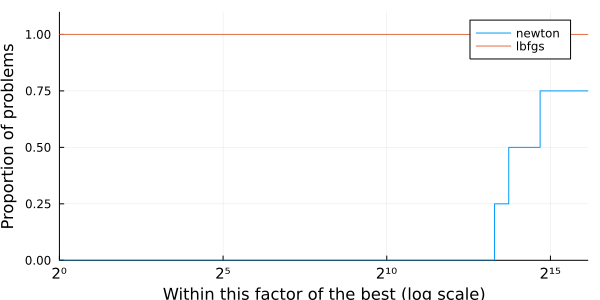
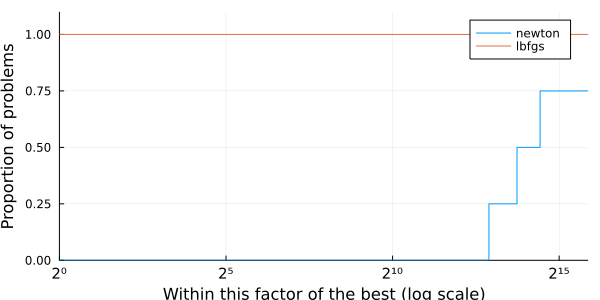
Deploying to gh-pages from  @ dcdb9bae952de26ad7f4052e1809d3c5ec10b59e 🚀

diff --git a/index.html b/index.html
@@ -1,4 +1,4 @@
-<!doctype html> <html lang=en  class=has-navbar-fixed-top > <meta charset=UTF-8 > <meta name=viewport  content="width=device-width, initial-scale=1"> <link rel=stylesheet  href="/libs/katex/katex.min.css"> <link rel=stylesheet  href="/libs/highlight/github.min.css"> <link rel=stylesheet  href="/css/styles.css"> <style> html {font-size: 17px;} .franklin-content {position: relative; padding-left: 8%; padding-right: 5%; line-height: 1.35em;} @media (min-width: 940px) { .franklin-content {width: 100%; margin-left: auto; margin-right: auto;} } @media (max-width: 768px) { .franklin-content {padding-left: 6%; padding-right: 6%;} } </style> <link rel=icon  href="/assets/favicon.png"> <title>Creating a JSO-compliant solver</title> <script src="/libs/highlight/highlight.pack.js"></script> <script src="https://unpkg.com/clipboard@2/dist/clipboard.min.js"></script> <script type=module  src="https://unpkg.com/ionicons@5.5.2/dist/ionicons/ionicons.esm.js"></script> <script nomodule src="https://unpkg.com/ionicons@5.5.2/dist/ionicons/ionicons.js"></script> <script> hljs.getLanguage('julia').keywords.custom = 'obj grad hess AbstractNLPModel'; </script> <nav class="navbar is-primary is-fixed-top" role=navigation  aria-label="main navigation"> <div class=navbar-brand > <a class=navbar-item  href="https://jso-docs.github.io"> <img src="/assets/jso.png"> </a> <a role=button  class=navbar-burger  aria-label=menu  aria-expanded=false  data-target=navbarBasicExample > <span aria-hidden=true ></span> <span aria-hidden=true ></span> <span aria-hidden=true ></span> </a> </div> <div id=navbarBasicExample  class=navbar-menu > <div class=navbar-start > <a class=navbar-item  href="/"> Home </a> <a class=navbar-item  href="/news-and-blogposts/"> News and Blogposts </a> <a class=navbar-item  href="/tutorials/"> Tutorials </a> <div class="navbar-item has-dropdown is-hoverable"> <a class=navbar-link  href="/ecosystems/index.html"> Ecosystems </a> <div class=navbar-dropdown > <a class=navbar-item  href="/ecosystems/linear-algebra/"> Linear Algebra </a> <a class=navbar-item  href="/ecosystems/models/"> Models </a> <a class=navbar-item  href="/ecosystems/solvers/"> Solvers </a> </div> </div> <a class=navbar-item  href="/references/"> References </a> <a class=navbar-item  href="/contributing/"> Contributing </a> </div> <div class=navbar-end > <div class=navbar-item > </div> </div> </div> </nav> <section class=section > <div class=container > <div class=content ><div class=franklin-content ><h1 id=title ><a href="#title" class=header-anchor >Creating a JSO-compliant solver</a></h1></p> <div class=author >by Abel S. Siqueira and João Okimoto</div> <p><img class=badge  src="https://img.shields.io/badge/ADNLPModels-0.3.1-hsl(9,100%25,30%25)?style=flat-square&labelColor=hsl(9,30%25,30%25)"> <img class=badge  src="https://img.shields.io/badge/JSOSolvers-0.7.6-hsl(101,100%25,30%25)?style=flat-square&labelColor=hsl(101,30%25,30%25)"> <img class=badge  src="https://img.shields.io/badge/LinearAlgebra-nothing-666?style=flat-square&labelColor=999"> <img class=badge  src="https://img.shields.io/badge/NLPModels-0.18.3-hsl(175,100%25,30%25)?style=flat-square&labelColor=hsl(175,30%25,30%25)"> <img class=badge  src="https://img.shields.io/badge/Plots-1.27.4-666?style=flat-square&labelColor=999"> <img class=badge  src="https://img.shields.io/badge/SolverBenchmark-0.5.1-hsl(313,100%25,30%25)?style=flat-square&labelColor=hsl(313,30%25,30%25)"> <img class=badge  src="https://img.shields.io/badge/SolverCore-0.2.2-hsl(323,100%25,30%25)?style=flat-square&labelColor=hsl(323,30%25,30%25)"> <p>In this tutorial you will learn what is a JSO-compliant solver, how to create one, and how to benchmark it against some other solver.</p> <div class=franklin-toc ><ol><li><a href="#what_is_a_jso-compliant_solver">What is a JSO-compliant solver</a><li><a href="#method_description">Method description</a><li><a href="#defining_a_test_problem_with_adnlpmodels_and_accessing_its_functions_with_the_nlpmodels_api">Defining a test problem with ADNLPModels and accessing its functions with the NLPModels API</a><li><a href="#improving_the_solver">Improving the solver</a><li><a href="#benchmarking">Benchmarking</a><li><a href="#performance_profiles">Performance profiles</a><li><a href="#improving_the_solver_more">Improving the solver more</a></ol></div> <h2 id=what_is_a_jso-compliant_solver ><a href="#what_is_a_jso-compliant_solver" class=header-anchor >What is a JSO-compliant solver</a></h2> <p>A JSO-compliant solver is a solver whose</p> <ul> <li><p>input is a model implementing the NLPModels API; and</p> <li><p>output is a specific struct from the package SolverCore.</p> </ul> <p>That means that you can devise your solver based on a single API that will work with many different problems. Furthermore, since the output type is known, we can provide tools to compare different solvers.</p> <p>To illustrate the procedure for creating a solver with the JSO API, we&#39;ll implement a Line-Search Modified Newton solver for the problem</p> \[ \min_x \ f(x) \] <h2 id=method_description ><a href="#method_description" class=header-anchor >Method description</a></h2> <p>The method consists of following the direction \(d_k\) that solves</p> \[ \nabla^2 f(x_k) d_k = -\nabla f(x_k) \] <p>This is only reasonable if the system can be solved and \(d_k\) is a descent direction. A sufficient condition for that is that \(\nabla^2 f(x_k)\) is positive definite, which is equivalent to saying that it has a Cholesky decomposition.</p> <p>Since this will not be true in general, the modified Newton method consists of computing \(\rho_k \geq 0\) such that \(\nabla^2 f(x_k) + \rho_k I\) is positive definite. One way to find such a \(\rho_k\) is given below</p> <pre><code class=language-julia >1. Start with ρ from the last iteration
+<!doctype html> <html lang=en  class=has-navbar-fixed-top > <meta charset=UTF-8 > <meta name=viewport  content="width=device-width, initial-scale=1"> <link rel=stylesheet  href="/libs/katex/katex.min.css"> <link rel=stylesheet  href="/libs/highlight/github.min.css"> <link rel=stylesheet  href="/css/styles.css"> <style> html {font-size: 17px;} .franklin-content {position: relative; padding-left: 8%; padding-right: 5%; line-height: 1.35em;} @media (min-width: 940px) { .franklin-content {width: 100%; margin-left: auto; margin-right: auto;} } @media (max-width: 768px) { .franklin-content {padding-left: 6%; padding-right: 6%;} } </style> <link rel=icon  href="/assets/favicon.png"> <title>Creating a JSO-compliant solver</title> <script src="/libs/highlight/highlight.pack.js"></script> <script src="https://unpkg.com/clipboard@2/dist/clipboard.min.js"></script> <script type=module  src="https://unpkg.com/ionicons@5.5.2/dist/ionicons/ionicons.esm.js"></script> <script nomodule src="https://unpkg.com/ionicons@5.5.2/dist/ionicons/ionicons.js"></script> <script> hljs.getLanguage('julia').keywords.custom = 'obj grad hess AbstractNLPModel'; </script> <nav class="navbar is-primary is-fixed-top" role=navigation  aria-label="main navigation"> <div class=navbar-brand > <a class=navbar-item  href="https://jso-docs.github.io"> <img src="/assets/jso.png"> </a> <a role=button  class=navbar-burger  aria-label=menu  aria-expanded=false  data-target=navbarBasicExample > <span aria-hidden=true ></span> <span aria-hidden=true ></span> <span aria-hidden=true ></span> </a> </div> <div id=navbarBasicExample  class=navbar-menu > <div class=navbar-start > <a class=navbar-item  href="/"> Home </a> <a class=navbar-item  href="/news-and-blogposts/"> News and Blogposts </a> <a class=navbar-item  href="/tutorials/"> Tutorials </a> <div class="navbar-item has-dropdown is-hoverable"> <a class=navbar-link  href="/ecosystems/index.html"> Ecosystems </a> <div class=navbar-dropdown > <a class=navbar-item  href="/ecosystems/linear-algebra/"> Linear Algebra </a> <a class=navbar-item  href="/ecosystems/models/"> Models </a> <a class=navbar-item  href="/ecosystems/solvers/"> Solvers </a> </div> </div> <a class=navbar-item  href="/references/"> References </a> <a class=navbar-item  href="/contributing/"> Contributing </a> </div> <div class=navbar-end > <div class=navbar-item > </div> </div> </div> </nav> <section class=section > <div class=container > <div class=content ><div class=franklin-content ><h1 id=title ><a href="#title" class=header-anchor >Creating a JSO-compliant solver</a></h1></p> <div class=author >by Abel S. Siqueira and João Okimoto</div> <p><img class=badge  src="https://img.shields.io/badge/ADNLPModels-0.3.1-hsl(9,100%25,30%25)?style=flat-square&labelColor=hsl(9,30%25,30%25)"> <img class=badge  src="https://img.shields.io/badge/JSOSolvers-0.7.6-hsl(101,100%25,30%25)?style=flat-square&labelColor=hsl(101,30%25,30%25)"> <img class=badge  src="https://img.shields.io/badge/LinearAlgebra-nothing-666?style=flat-square&labelColor=999"> <img class=badge  src="https://img.shields.io/badge/NLPModels-0.18.3-hsl(175,100%25,30%25)?style=flat-square&labelColor=hsl(175,30%25,30%25)"> <img class=badge  src="https://img.shields.io/badge/Plots-1.27.5-666?style=flat-square&labelColor=999"> <img class=badge  src="https://img.shields.io/badge/SolverBenchmark-0.5.1-hsl(313,100%25,30%25)?style=flat-square&labelColor=hsl(313,30%25,30%25)"> <img class=badge  src="https://img.shields.io/badge/SolverCore-0.2.2-hsl(323,100%25,30%25)?style=flat-square&labelColor=hsl(323,30%25,30%25)"> <p>In this tutorial you will learn what is a JSO-compliant solver, how to create one, and how to benchmark it against some other solver.</p> <div class=franklin-toc ><ol><li><a href="#what_is_a_jso-compliant_solver">What is a JSO-compliant solver</a><li><a href="#method_description">Method description</a><li><a href="#defining_a_test_problem_with_adnlpmodels_and_accessing_its_functions_with_the_nlpmodels_api">Defining a test problem with ADNLPModels and accessing its functions with the NLPModels API</a><li><a href="#improving_the_solver">Improving the solver</a><li><a href="#benchmarking">Benchmarking</a><li><a href="#performance_profiles">Performance profiles</a><li><a href="#improving_the_solver_more">Improving the solver more</a></ol></div> <h2 id=what_is_a_jso-compliant_solver ><a href="#what_is_a_jso-compliant_solver" class=header-anchor >What is a JSO-compliant solver</a></h2> <p>A JSO-compliant solver is a solver whose</p> <ul> <li><p>input is a model implementing the NLPModels API; and</p> <li><p>output is a specific struct from the package SolverCore.</p> </ul> <p>That means that you can devise your solver based on a single API that will work with many different problems. Furthermore, since the output type is known, we can provide tools to compare different solvers.</p> <p>To illustrate the procedure for creating a solver with the JSO API, we&#39;ll implement a Line-Search Modified Newton solver for the problem</p> \[ \min_x \ f(x) \] <h2 id=method_description ><a href="#method_description" class=header-anchor >Method description</a></h2> <p>The method consists of following the direction \(d_k\) that solves</p> \[ \nabla^2 f(x_k) d_k = -\nabla f(x_k) \] <p>This is only reasonable if the system can be solved and \(d_k\) is a descent direction. A sufficient condition for that is that \(\nabla^2 f(x_k)\) is positive definite, which is equivalent to saying that it has a Cholesky decomposition.</p> <p>Since this will not be true in general, the modified Newton method consists of computing \(\rho_k \geq 0\) such that \(\nabla^2 f(x_k) + \rho_k I\) is positive definite. One way to find such a \(\rho_k\) is given below</p> <pre><code class=language-julia >1. Start with ρ from the last iteration
 2. Try to compute the Cholesky factor of ∇²f&#40;x&#41; &#43; ρI
 3. If not successful, increase ρ to either 1e-8 or 10ρ, whichever is largest, and return to step 2
 4. Otherwise, continue the algorithm</code></pre> <p>Next, for the line-search part, we use backtracking and ask that the Armijo condition be satisfied, that is find the smallest \(p \in \mathbb{N}\) such that \(t = σ^p\) satisfies</p> \[ f(x_k + td_k) < f(x_k) + \alpha t g_k^T d_k, \] <p>for \(\alpha \in (0,1)\), called the Armijo parameter.</p> <h2 id=defining_a_test_problem_with_adnlpmodels_and_accessing_its_functions_with_the_nlpmodels_api ><a href="#defining_a_test_problem_with_adnlpmodels_and_accessing_its_functions_with_the_nlpmodels_api" class=header-anchor >Defining a test problem with ADNLPModels and accessing its functions with the NLPModels API</a></h2> <p>Let&#39;s define a test problem to verify that our method is working, and let&#39;s use a classic one: Rosenbrock&#39;s function<sup id="fnref:1"><a href="#fndef:1" class=fnref >[1]</a></sup></p> \[ \min_x \ (x_1 - 1)^2 + 4 (x_2 - x_1^2)^2, \] <p>starting from point &#91;-1.2; 1.0&#93;.</p> <pre><code class=language-julia >using Plots
@@ -8,7 +8,7 @@ contour&#40;-2:0.02:2, -0.5:0.02:1.5, &#40;x,y&#41; -&gt; &#40;x - 1&#41;^2 &#43
 nlp &#61; ADNLPModel&#40;
   x -&gt; &#40;x&#91;1&#93; - 1&#41;^2 &#43; 4 * &#40;x&#91;2&#93; - x&#91;1&#93;^2&#41;^2, # function
   &#91;-1.2; 1.0&#93; # starting point
-&#41;</code></pre><pre><code class="plaintext code-output">ADNLPModel - Model with automatic differentiation backend ADNLPModels.ForwardDiffAD{ForwardDiff.GradientConfig{ForwardDiff.Tag{var"#3#4", Float64}, Float64, 2, Vector{ForwardDiff.Dual{ForwardDiff.Tag{var"#3#4", Float64}, Float64, 2}}}}(3, 0, ForwardDiff.GradientConfig{ForwardDiff.Tag{var"#3#4", Float64}, Float64, 2, Vector{ForwardDiff.Dual{ForwardDiff.Tag{var"#3#4", Float64}, Float64, 2}}}((Partials(1.0, 0.0), Partials(0.0, 1.0)), ForwardDiff.Dual{ForwardDiff.Tag{var"#3#4", Float64}, Float64, 2}[Dual{ForwardDiff.Tag{var"#3#4", Float64}}(5.0e-324,1.0e-323,1.5e-323), Dual{ForwardDiff.Tag{var"#3#4", Float64}}(2.0e-323,2.5e-323,3.0e-323)]))
+&#41;</code></pre><pre><code class="plaintext code-output">ADNLPModel - Model with automatic differentiation backend ADNLPModels.ForwardDiffAD{ForwardDiff.GradientConfig{ForwardDiff.Tag{var"#3#4", Float64}, Float64, 2, Vector{ForwardDiff.Dual{ForwardDiff.Tag{var"#3#4", Float64}, Float64, 2}}}}(3, 0, ForwardDiff.GradientConfig{ForwardDiff.Tag{var"#3#4", Float64}, Float64, 2, Vector{ForwardDiff.Dual{ForwardDiff.Tag{var"#3#4", Float64}, Float64, 2}}}((Partials(1.0, 0.0), Partials(0.0, 1.0)), ForwardDiff.Dual{ForwardDiff.Tag{var"#3#4", Float64}, Float64, 2}[Dual{ForwardDiff.Tag{var"#3#4", Float64}}(0.0,6.9095071710586e-310,6.9095071490438e-310), Dual{ForwardDiff.Tag{var"#3#4", Float64}}(0.0,6.9095071710586e-310,6.9095071490438e-310)]))
   Problem name: Generic
    All variables: ████████████████████ 2      All constraints: ⋅⋅⋅⋅⋅⋅⋅⋅⋅⋅⋅⋅⋅⋅⋅⋅⋅⋅⋅⋅ 0     
             free: ████████████████████ 2                 free: ⋅⋅⋅⋅⋅⋅⋅⋅⋅⋅⋅⋅⋅⋅⋅⋅⋅⋅⋅⋅ 0     
@@ -247,7 +247,7 @@ print&#40;output&#41;</code></pre><pre><code class="plaintext code-output">Gener
   dual feasibility: 4.018046284781729e-9
   solution: [0.9999999986742657  0.9999999970013461]
   iterations: 18
-  elapsed time: 6.389617919921875e-5
+  elapsed time: 5.2928924560546875e-5
 </code></pre>
 <p>And to compare both solvers, we need a collection of problems. Let&#39;s just create one manually for now.</p>
 <pre><code class=language-julia >problems &#61; &#91;
@@ -265,18 +265,18 @@ stats &#61; bmark_solvers&#40;solvers, problems&#41;</code></pre><pre><code clas
  Row │ id     name     nvar   ncon   nequ   status       objective     elapsed_time  iter   dual_feas  primal_feas  neval_obj  neval_grad  neval_cons  neval_cons_lin  neval_cons_nln  neval_jcon  neval_jgrad  neval_jac  neval_jac_lin  neval_jac_nln  neval_jprod  neval_jprod_lin  neval_jprod_nln  neval_jtprod  neval_jtprod_lin  neval_jtprod_nln  neval_hess  neval_hprod  neval_jhess  neval_jhprod  neval_residual  neval_jac_residual  neval_jprod_residual  neval_jtprod_residual  neval_hess_residual  neval_jhess_residual  neval_hprod_residual  extrainfo
      │ Int64  String   Int64  Int64  Int64  Symbol       Float64       Float64       Int64  Float64    Float64      Int64      Int64       Int64       Int64           Int64           Int64       Int64        Int64      Int64          Int64          Int64        Int64            Int64            Int64         Int64             Int64             Int64       Int64        Int64        Int64         Int64           Int64               Int64                 Int64                  Int64                Int64                 Int64                 String
 ─────┼────────────────────────────────────────────────────────────────────────────────────────────────────────────────────────────────────────────────────────────────────────────────────────────────────────────────────────────────────────────────────────────────────────────────────────────────────────────────────────────────────────────────────────────────────────────────────────────────────────────────────────────────────────────────────────────────────────────────────────────────────────────────────────────────────────────────────────────────────
-   1 │     1  Generic      2      0      0  first_order   2.46519e-31      0.53964       1        Inf          0.0          3           4           0               0               0           0            0          0              0              0            0                0                0             0                 0                 0           1            0            0             0               0                   0                     0                      0                    0                     0                     0
-   2 │     2  Generic      2      0      0  first_order   3.74398e-21      0.611376     21        Inf          0.0         50          64           0               0               0           0            0          0              0              0            0                0                0             0                 0                 0          21            0            0             0               0                   0                     0                      0                    0                     0                     0
-   3 │     3  Generic      2      0      0  max_iter     -8.36356          0.528714    100        Inf          0.0        201         301           0               0               0           0            0          0              0              0            0                0                0             0                 0                 0         100            0            0             0               0                   0                     0                      0                    0                     0                     0
-   4 │     4  Generic      2      0      0  first_order   1.43195          0.609137      5        Inf          0.0         12          16           0               0               0           0            0          0              0              0            0                0                0             0                 0                 0           5            0            0             0               0                   0                     0                      0                    0                     0                     0
+   1 │     1  Generic      2      0      0  first_order   2.46519e-31      0.477763      1        Inf          0.0          3           4           0               0               0           0            0          0              0              0            0                0                0             0                 0                 0           1            0            0             0               0                   0                     0                      0                    0                     0                     0
+   2 │     2  Generic      2      0      0  first_order   3.74398e-21      0.532753     21        Inf          0.0         50          64           0               0               0           0            0          0              0              0            0                0                0             0                 0                 0          21            0            0             0               0                   0                     0                      0                    0                     0                     0
+   3 │     3  Generic      2      0      0  max_iter     -8.36356          0.501235    100        Inf          0.0        201         301           0               0               0           0            0          0              0              0            0                0                0             0                 0                 0         100            0            0             0               0                   0                     0                      0                    0                     0                     0
+   4 │     4  Generic      2      0      0  first_order   1.43195          0.531023      5        Inf          0.0         12          16           0               0               0           0            0          0              0              0            0                0                0             0                 0                 0           5            0            0             0               0                   0                     0                      0                    0                     0                     0
   :lbfgs => 4×39 DataFrame
  Row │ id     name     nvar   ncon   nequ   status       objective     elapsed_time  iter   dual_feas   primal_feas  neval_obj  neval_grad  neval_cons  neval_cons_lin  neval_cons_nln  neval_jcon  neval_jgrad  neval_jac  neval_jac_lin  neval_jac_nln  neval_jprod  neval_jprod_lin  neval_jprod_nln  neval_jtprod  neval_jtprod_lin  neval_jtprod_nln  neval_hess  neval_hprod  neval_jhess  neval_jhprod  neval_residual  neval_jac_residual  neval_jprod_residual  neval_jtprod_residual  neval_hess_residual  neval_jhess_residual  neval_hprod_residual  extrainfo
      │ Int64  String   Int64  Int64  Int64  Symbol       Float64       Float64       Int64  Float64     Float64      Int64      Int64       Int64       Int64           Int64           Int64       Int64        Int64      Int64          Int64          Int64        Int64            Int64            Int64         Int64             Int64             Int64       Int64        Int64        Int64         Int64           Int64               Int64                 Int64                  Int64                Int64                 Int64                 String
 ─────┼─────────────────────────────────────────────────────────────────────────────────────────────────────────────────────────────────────────────────────────────────────────────────────────────────────────────────────────────────────────────────────────────────────────────────────────────────────────────────────────────────────────────────────────────────────────────────────────────────────────────────────────────────────────────────────────────────────────────────────────────────────────────────────────────────────────────────────────────────────
-   1 │     1  Generic      2      0      0  first_order   2.26824e-16    3.98159e-5      8  5.28297e-8          0.0         11          10           0               0               0           0            0          0              0              0            0                0                0             0                 0                 0           0            0            0             0               0                   0                     0                      0                    0                     0                     0
-   2 │     2  Generic      2      0      0  first_order   1.44561e-17    6.10352e-5     39  8.41132e-8          0.0         52          45           0               0               0           0            0          0              0              0            0                0                0             0                 0                 0           0            0            0             0               0                   0                     0                      0                    0                     0                     0
-   3 │     3  Generic      2      0      0  first_order  -8.37235        2.40803e-5     12  1.60958e-9          0.0         17          15           0               0               0           0            0          0              0              0            0                0                0             0                 0                 0           0            0            0             0               0                   0                     0                      0                    0                     0                     0
-   4 │     4  Generic      2      0      0  first_order   1.43195        2.31266e-5      9  4.18646e-9          0.0         11          11           0               0               0           0            0          0              0              0            0                0                0             0                 0                 0           0            0            0             0               0                   0                     0                      0                    0                     0                     0</code></pre>
+   1 │     1  Generic      2      0      0  first_order   2.26824e-16    3.50475e-5      8  5.28297e-8          0.0         11          10           0               0               0           0            0          0              0              0            0                0                0             0                 0                 0           0            0            0             0               0                   0                     0                      0                    0                     0                     0
+   2 │     2  Generic      2      0      0  first_order   1.44561e-17    7.00951e-5     39  8.41132e-8          0.0         52          45           0               0               0           0            0          0              0              0            0                0                0             0                 0                 0           0            0            0             0               0                   0                     0                      0                    0                     0                     0
+   3 │     3  Generic      2      0      0  first_order  -8.37235        2.19345e-5     12  1.60958e-9          0.0         17          15           0               0               0           0            0          0              0              0            0                0                0             0                 0                 0           0            0            0             0               0                   0                     0                      0                    0                     0                     0
+   4 │     4  Generic      2      0      0  first_order   1.43195        2.40803e-5      9  4.18646e-9          0.0         11          11           0               0               0           0            0          0              0              0            0                0                0             0                 0                 0           0            0            0             0               0                   0                     0                      0                    0                     0                     0</code></pre>
 <p>The results is a Dictionary of Symbols to DataFrame tables.</p>
 <pre><code class=language-julia >@show typeof&#40;stats&#41;
 @show keys&#40;stats&#41;</code></pre><pre><code class="plaintext code-output">typeof(stats) = Dict{Symbol, DataFrames.DataFrame}
@@ -287,10 +287,10 @@ keys(stats) = [:newton, :lbfgs]
 pretty_stats&#40;stats&#91;:newton&#93;&#91;&#33;, cols&#93;&#41;</code></pre><pre><code class="plaintext code-output">┌─────────┬─────────────┬───────────┬──────────────┬────────┐
 │    name │      status │ objective │ elapsed_time │   iter │
 ├─────────┼─────────────┼───────────┼──────────────┼────────┤
-│ Generic │ first_order │  2.47e-31 │     5.40e-01 │      1 │
-│ Generic │ first_order │  3.74e-21 │     6.11e-01 │     21 │
-│ Generic │    max_iter │ -8.36e+00 │     5.29e-01 │    100 │
-│ Generic │ first_order │  1.43e+00 │     6.09e-01 │      5 │
+│ Generic │ first_order │  2.47e-31 │     4.78e-01 │      1 │
+│ Generic │ first_order │  3.74e-21 │     5.33e-01 │     21 │
+│ Generic │    max_iter │ -8.36e+00 │     5.01e-01 │    100 │
+│ Generic │ first_order │  1.43e+00 │     5.31e-01 │      5 │
 └─────────┴─────────────┴───────────┴──────────────┴────────┘
 </code></pre>
 <p>We can also create a similar table in .tex format, using something like</p>
@@ -496,7 +496,7 @@ performance_profile&#40;stats, cost&#41;</code></pre>
     <footer class=footer >
       <div class="content has-text-centered is-small">
         &copy; Abel Soares Siqueira. <br>
-        Last modified: April 03, 2022.<br>
+        Last modified: April 10, 2022.<br>
         <a ckass=link  href="https://github.com/jso-docs/">jso-docs at GitHub</a>
       </div>
     </footer>
